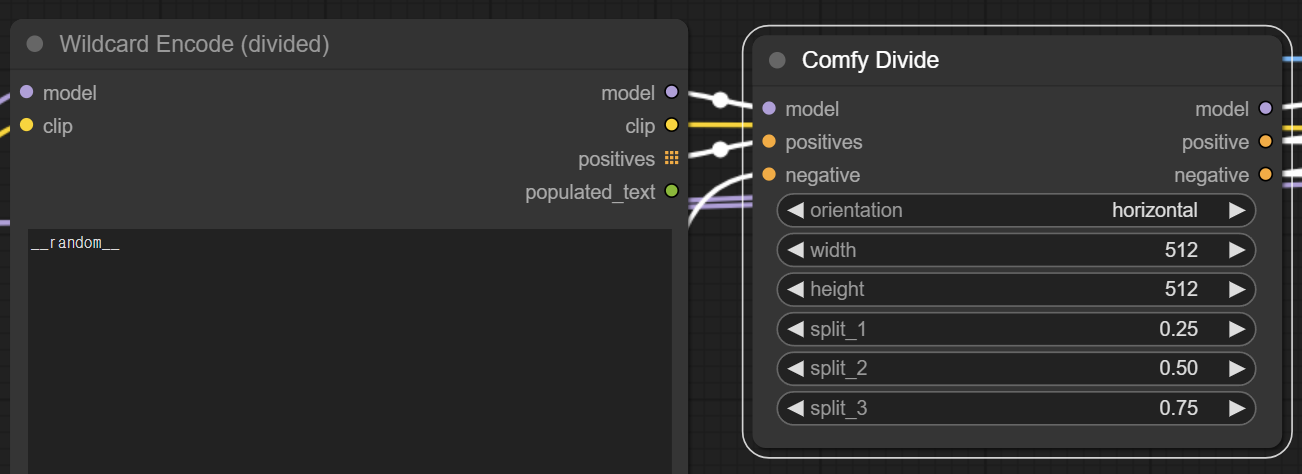
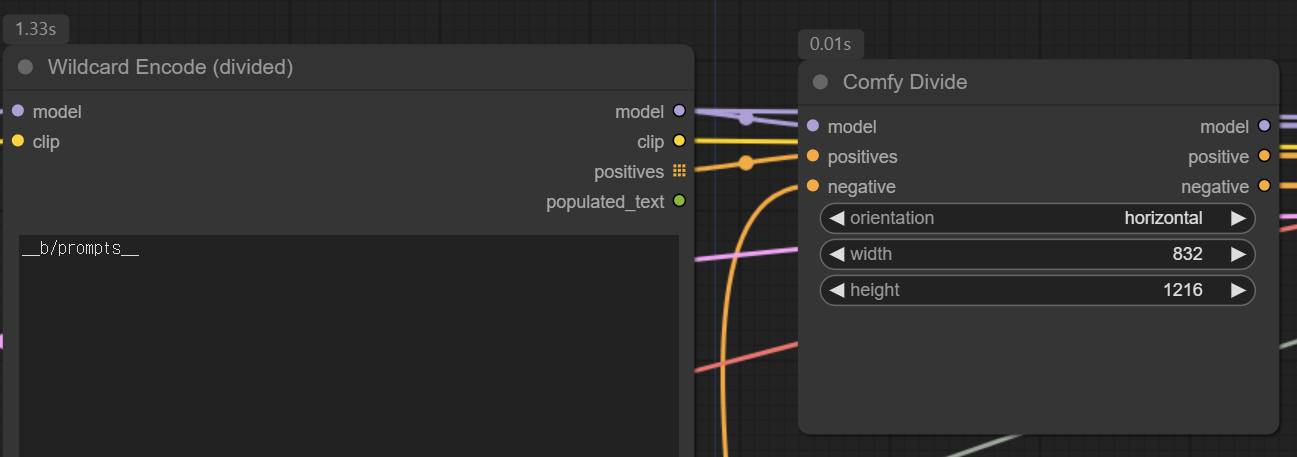
Bump up version 0.2.0
- Update README

diff --git a/__init__.py b/__init__.py
@@ -19,7 +19,7 @@ try:
     cm_global.register_extension(
         "WildDivide",
         {
-            "version": "0.1.0",
+            "version": "0.2.0",
             "name": "Wild Divide",
             "nodes": set(NODE_CLASS_MAPPINGS.keys()),
             "description": "This extension provides the ability to build prompts using wildcards for each region of a split image.",

diff --git a/README.md b/README.md
@@ -32,7 +32,7 @@ hair:
 
 ### Child selection pattern
 
-Starting each line with / selects the line that fits that pattern. For example, if you write
+Starting a line with / selects the line that matches the pattern. For example, if you write
 
 ```yaml
 outfit:
@@ -46,17 +46,16 @@ _socks_ would be selected. If there was no matching pattern, _bare feet_ would b
 
 ### Split region
 
-You can use `[SEP]` to divide an image into different regions. The first `[SEP]` applies to the entire image, and each subsequent `[SEP]` divides the image into _n_ equal parts.
+You can use `[SEP]` to divide an image into different regions. Each `[SEP]` divides the image into _n_ equal parts.
 
 ```yaml
-scene: score_9 [SEP] blonde hair [SEP] black hair
+scene: blonde hair [SEP] black hair
 ```
 
-For example, if written as above, `score_9` would be applied to the entire image, `blonde hair` would be applied to the left half of the image, `black hair` would be applied to the right half of the image.
+For example, if written as above, `blonde hair` would be applied to the left half of the image, `black hair` would be applied to the right half of the image.
 
 ## Comfy Divide
 
 ![Comfy Divide](docs/screenshot1.png)
 
 - Connect `positives` to `positives` in `Wildcard Encode (divided)`.
-- `split_1`, `split_2`, `split_3` are not working currently.
